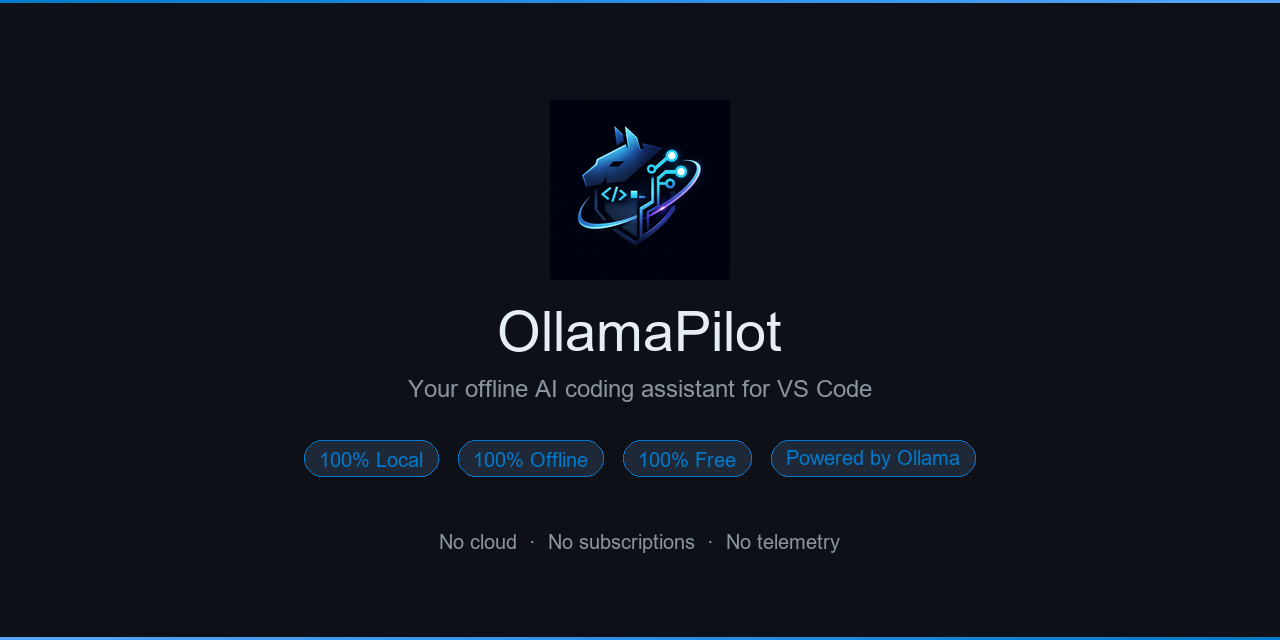
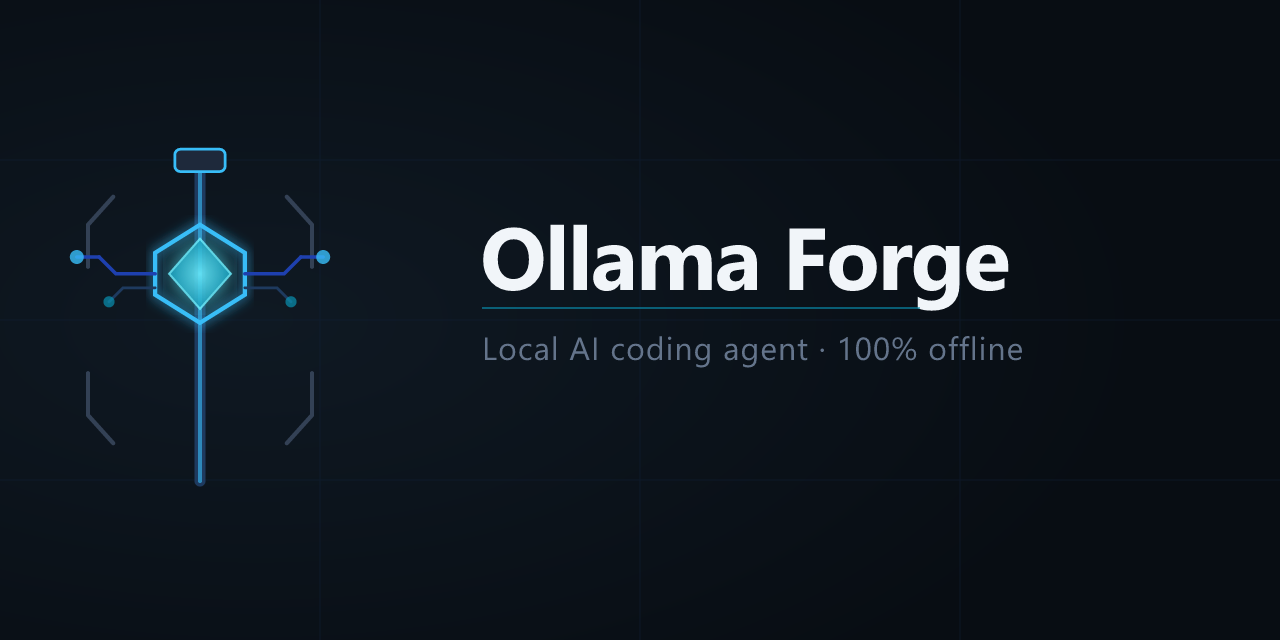
feat: Ollama Forge brand assets
New logo based on tech-forge aesthetic: circuit board lines radiating
from a central gem/blade motif. Cyan accent color (#22d3ee/#38bdf8)
on dark background (#080d13).

- sidebar-icon.svg — 24x24 theme-adaptive activity bar icon
- logo.svg / logo.png — 1024x1024 extension icon
- banner.svg / banner.png — 1280x640 marketplace banner
- scripts/generate-logo.py — SVG source + resvg render script

diff --git a/scripts/generate-logo.py b/scripts/generate-logo.py
@@ -1,0 +1,197 @@
+#!/usr/bin/env python3
+"""
+Generate Ollama Forge logo assets from SVG source.
+Requires: cairosvg  (pip install cairosvg)
+  or just open logo.svg in a browser and export to PNG manually.
+
+Outputs:
+  images/logo.png        — 1024x1024 extension icon
+  images/banner.png      — 1280x640 marketplace banner
+"""
+
+import os
+import sys
+
+LOGO_SVG = """
+<svg xmlns="http://www.w3.org/2000/svg" viewBox="0 0 200 200"
+     width="1024" height="1024">
+  <defs>
+    <radialGradient id="bgGrad" cx="50%" cy="50%" r="60%">
+      <stop offset="0%" stop-color="#0f1923"/>
+      <stop offset="100%" stop-color="#080d13"/>
+    </radialGradient>
+    <radialGradient id="gemGrad" cx="50%" cy="50%" r="60%">
+      <stop offset="0%" stop-color="#67e8f9"/>
+      <stop offset="100%" stop-color="#0891b2"/>
+    </radialGradient>
+    <filter id="glow">
+      <feGaussianBlur stdDeviation="3" result="blur"/>
+      <feMerge><feMergeNode in="blur"/><feMergeNode in="SourceGraphic"/></feMerge>
+    </filter>
+    <filter id="gemglow">
+      <feGaussianBlur stdDeviation="5" result="blur"/>
+      <feMerge><feMergeNode in="blur"/><feMergeNode in="SourceGraphic"/></feMerge>
+    </filter>
+  </defs>
+
+  <!-- Background circle -->
+  <circle cx="100" cy="100" r="100" fill="url(#bgGrad)"/>
+
+  <!-- Outer hex frame - top corners -->
+  <polyline points="62,42 50,55 50,75" fill="none" stroke="#334155" stroke-width="3" stroke-linecap="round"/>
+  <polyline points="138,42 150,55 150,75" fill="none" stroke="#334155" stroke-width="3" stroke-linecap="round"/>
+  <!-- Outer hex frame - bottom corners -->
+  <polyline points="50,125 50,145 62,158" fill="none" stroke="#334155" stroke-width="3" stroke-linecap="round"/>
+  <polyline points="150,125 150,145 138,158" fill="none" stroke="#334155" stroke-width="3" stroke-linecap="round"/>
+
+  <!-- Blade -->
+  <line x1="100" y1="15" x2="100" y2="185" stroke="#1e3a5f" stroke-width="8" stroke-linecap="round"/>
+  <line x1="100" y1="15" x2="100" y2="185" stroke="#38bdf8" stroke-width="3" stroke-linecap="round" opacity="0.6"/>
+
+  <!-- Top pommel -->
+  <rect x="86" y="12" width="28" height="16" rx="4" fill="#1e293b" stroke="#38bdf8" stroke-width="2"/>
+
+  <!-- Hex gem frame -->
+  <polygon points="100,52 124,66 124,94 100,108 76,94 76,66"
+           fill="none" stroke="#38bdf8" stroke-width="3" filter="url(#glow)"/>
+
+  <!-- Inner gem -->
+  <polygon points="100,62 116,80 100,98 84,80"
+           fill="url(#gemGrad)" stroke="#67e8f9" stroke-width="1.5"
+           filter="url(#gemglow)" opacity="0.9"/>
+
+  <!-- Circuit traces left -->
+  <polyline points="76,80 55,80 45,70" fill="none" stroke="#1e40af" stroke-width="2.5" stroke-linecap="round"/>
+  <line x1="45" y1="70" x2="30" y2="70" stroke="#1e40af" stroke-width="2.5" stroke-linecap="round"/>
+  <circle cx="30" cy="70" r="5" fill="#38bdf8" opacity="0.8"/>
+
+  <polyline points="76,90 58,90 48,100" fill="none" stroke="#1e3a5f" stroke-width="2" stroke-linecap="round"/>
+  <circle cx="48" cy="100" r="4" fill="#0891b2" opacity="0.7"/>
+
+  <polyline points="76,70 58,70 50,62" fill="none" stroke="#1e3a5f" stroke-width="1.8" stroke-linecap="round"/>
+  <circle cx="50" cy="62" r="3.5" fill="#0891b2" opacity="0.6"/>
+
+  <!-- Circuit traces right -->
+  <polyline points="124,80 145,80 155,70" fill="none" stroke="#1e40af" stroke-width="2.5" stroke-linecap="round"/>
+  <line x1="155" y1="70" x2="170" y2="70" stroke="#1e40af" stroke-width="2.5" stroke-linecap="round"/>
+  <circle cx="170" cy="70" r="5" fill="#38bdf8" opacity="0.8"/>
+
+  <polyline points="124,90 142,90 152,100" fill="none" stroke="#1e3a5f" stroke-width="2" stroke-linecap="round"/>
+  <circle cx="152" cy="100" r="4" fill="#0891b2" opacity="0.7"/>
+
+  <polyline points="124,70 142,70 150,62" fill="none" stroke="#1e3a5f" stroke-width="1.8" stroke-linecap="round"/>
+  <circle cx="150" cy="62" r="3.5" fill="#0891b2" opacity="0.6"/>
+</svg>
+"""
+
+BANNER_SVG = """
+<svg xmlns="http://www.w3.org/2000/svg" viewBox="0 0 1280 640"
+     width="1280" height="640">
+  <defs>
+    <radialGradient id="bgGrad" cx="20%" cy="50%" r="70%">
+      <stop offset="0%" stop-color="#0f1923"/>
+      <stop offset="100%" stop-color="#080d13"/>
+    </radialGradient>
+    <radialGradient id="gemGrad" cx="50%" cy="50%" r="60%">
+      <stop offset="0%" stop-color="#67e8f9"/>
+      <stop offset="100%" stop-color="#0891b2"/>
+    </radialGradient>
+    <filter id="glow">
+      <feGaussianBlur stdDeviation="4" result="blur"/>
+      <feMerge><feMergeNode in="blur"/><feMergeNode in="SourceGraphic"/></feMerge>
+    </filter>
+    <filter id="gemglow">
+      <feGaussianBlur stdDeviation="8" result="blur"/>
+      <feMerge><feMergeNode in="blur"/><feMergeNode in="SourceGraphic"/></feMerge>
+    </filter>
+  </defs>
+
+  <!-- Background -->
+  <rect width="1280" height="640" fill="url(#bgGrad)"/>
+
+  <!-- Subtle grid lines -->
+  <g stroke="#0f2038" stroke-width="1" opacity="0.5">
+    <line x1="0" y1="160" x2="1280" y2="160"/>
+    <line x1="0" y1="320" x2="1280" y2="320"/>
+    <line x1="0" y1="480" x2="1280" y2="480"/>
+    <line x1="320" y1="0" x2="320" y2="640"/>
+    <line x1="640" y1="0" x2="640" y2="640"/>
+    <line x1="960" y1="0" x2="960" y2="640"/>
+  </g>
+
+  <!-- Logo group, centered left at x=200 -->
+  <g transform="translate(200,320) scale(1.4)">
+    <!-- Outer hex frame -->
+    <polyline points="-62,-88 -80,-68 -80,-38" fill="none" stroke="#334155" stroke-width="3" stroke-linecap="round"/>
+    <polyline points="62,-88 80,-68 80,-38" fill="none" stroke="#334155" stroke-width="3" stroke-linecap="round"/>
+    <polyline points="-80,38 -80,68 -62,88" fill="none" stroke="#334155" stroke-width="3" stroke-linecap="round"/>
+    <polyline points="80,38 80,68 62,88" fill="none" stroke="#334155" stroke-width="3" stroke-linecap="round"/>
+    <!-- Blade -->
+    <line x1="0" y1="-115" x2="0" y2="115" stroke="#1e3a5f" stroke-width="8" stroke-linecap="round"/>
+    <line x1="0" y1="-115" x2="0" y2="115" stroke="#38bdf8" stroke-width="3" stroke-linecap="round" opacity="0.6"/>
+    <!-- Pommel -->
+    <rect x="-18" y="-122" width="36" height="16" rx="4" fill="#1e293b" stroke="#38bdf8" stroke-width="2"/>
+    <!-- Hex gem frame -->
+    <polygon points="0,-68 32,-48 32,-18 0,2 -32,-18 -32,-48"
+             fill="none" stroke="#38bdf8" stroke-width="3" filter="url(#glow)"/>
+    <!-- Inner gem -->
+    <polygon points="0,-58 22,-33 0,-8 -22,-33"
+             fill="url(#gemGrad)" stroke="#67e8f9" stroke-width="1.5"
+             filter="url(#gemglow)" opacity="0.9"/>
+    <!-- Circuit left -->
+    <polyline points="-32,-33 -60,-33 -72,-45" fill="none" stroke="#1e40af" stroke-width="2.5" stroke-linecap="round"/>
+    <line x1="-72" y1="-45" x2="-88" y2="-45" stroke="#1e40af" stroke-width="2.5" stroke-linecap="round"/>
+    <circle cx="-88" cy="-45" r="5" fill="#38bdf8" opacity="0.8"/>
+    <polyline points="-32,-23 -55,-23 -65,-13" fill="none" stroke="#1e3a5f" stroke-width="2" stroke-linecap="round"/>
+    <circle cx="-65" cy="-13" r="4" fill="#0891b2" opacity="0.7"/>
+    <!-- Circuit right -->
+    <polyline points="32,-33 60,-33 72,-45" fill="none" stroke="#1e40af" stroke-width="2.5" stroke-linecap="round"/>
+    <line x1="72" y1="-45" x2="88" y2="-45" stroke="#1e40af" stroke-width="2.5" stroke-linecap="round"/>
+    <circle cx="88" cy="-45" r="5" fill="#38bdf8" opacity="0.8"/>
+    <polyline points="32,-23 55,-23 65,-13" fill="none" stroke="#1e3a5f" stroke-width="2" stroke-linecap="round"/>
+    <circle cx="65" cy="-13" r="4" fill="#0891b2" opacity="0.7"/>
+  </g>
+
+  <!-- Text: Ollama Forge -->
+  <text x="480" y="290" font-family="'Segoe UI', system-ui, sans-serif"
+        font-size="88" font-weight="700" fill="#f1f5f9" letter-spacing="-2">
+    Ollama Forge
+  </text>
+  <!-- Tagline -->
+  <text x="482" y="360" font-family="'Segoe UI', system-ui, sans-serif"
+        font-size="32" font-weight="400" fill="#64748b" letter-spacing="1">
+    Local AI coding agent · 100% offline
+  </text>
+  <!-- Accent line under title -->
+  <line x1="482" y1="308" x2="920" y2="308" stroke="#0891b2" stroke-width="2" opacity="0.6"/>
+</svg>
+"""
+
+os.makedirs("images", exist_ok=True)
+
+# Write SVG sources
+with open("images/logo.svg", "w") as f:
+    f.write(LOGO_SVG.strip())
+print("✓ images/logo.svg written")
+
+with open("images/banner.svg", "w") as f:
+    f.write(BANNER_SVG.strip())
+print("✓ images/banner.svg written")
+
+# Try to render PNGs with cairosvg
+try:
+    import cairosvg
+    cairosvg.svg2png(url="images/logo.svg", write_to="images/logo.png", output_width=1024, output_height=1024)
+    print("✓ images/logo.png rendered (1024x1024)")
+    cairosvg.svg2png(url="images/banner.svg", write_to="images/banner.png", output_width=1280, output_height=640)
+    print("✓ images/banner.png rendered (1280x640)")
+except ImportError:
+    print()
+    print("cairosvg not installed — SVG files written, render manually:")
+    print("  Option A: pip install cairosvg && python3 scripts/generate-logo.py")
+    print("  Option B: open images/logo.svg and images/banner.svg in a browser,")
+    print("            screenshot/export to PNG at the correct dimensions")
+    print()
+    print("Or install Inkscape and run:")
+    print("  inkscape images/logo.svg --export-png=images/logo.png -w 1024 -h 1024")
+    print("  inkscape images/banner.svg --export-png=images/banner.png -w 1280 -h 640")
